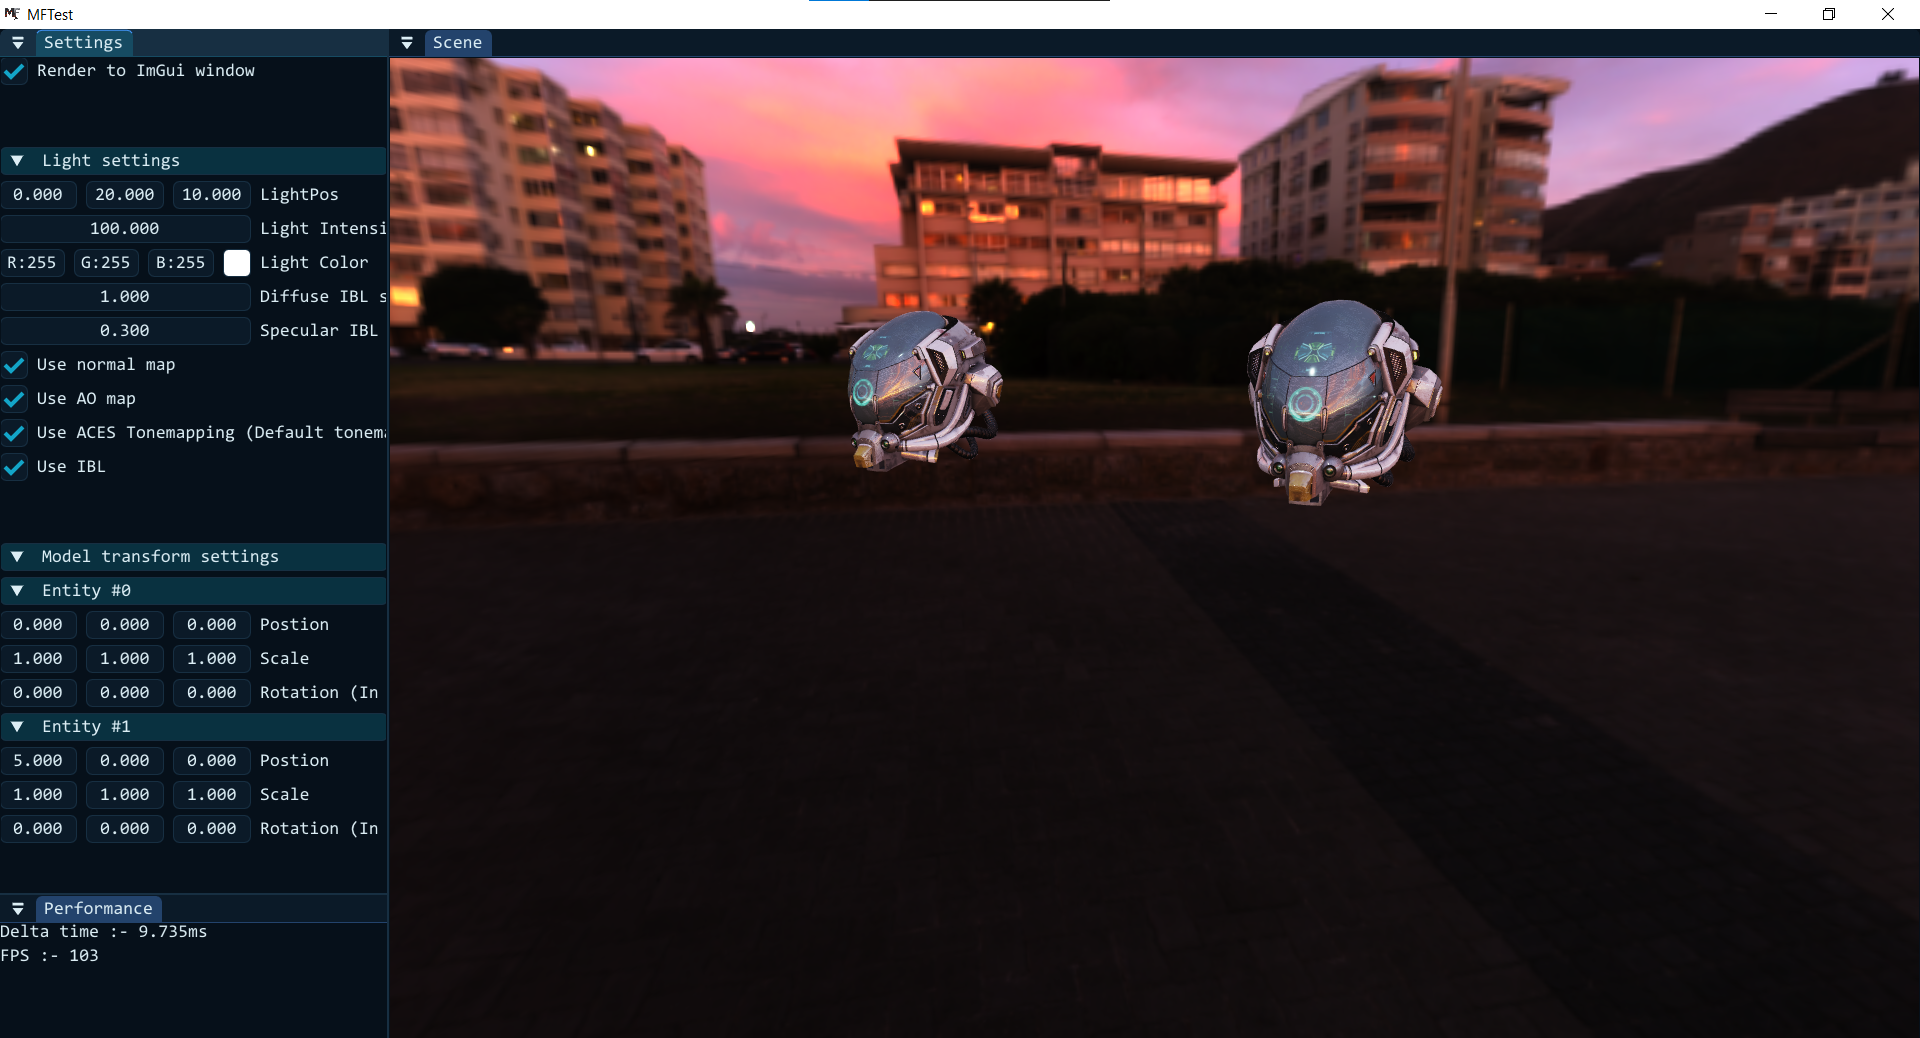
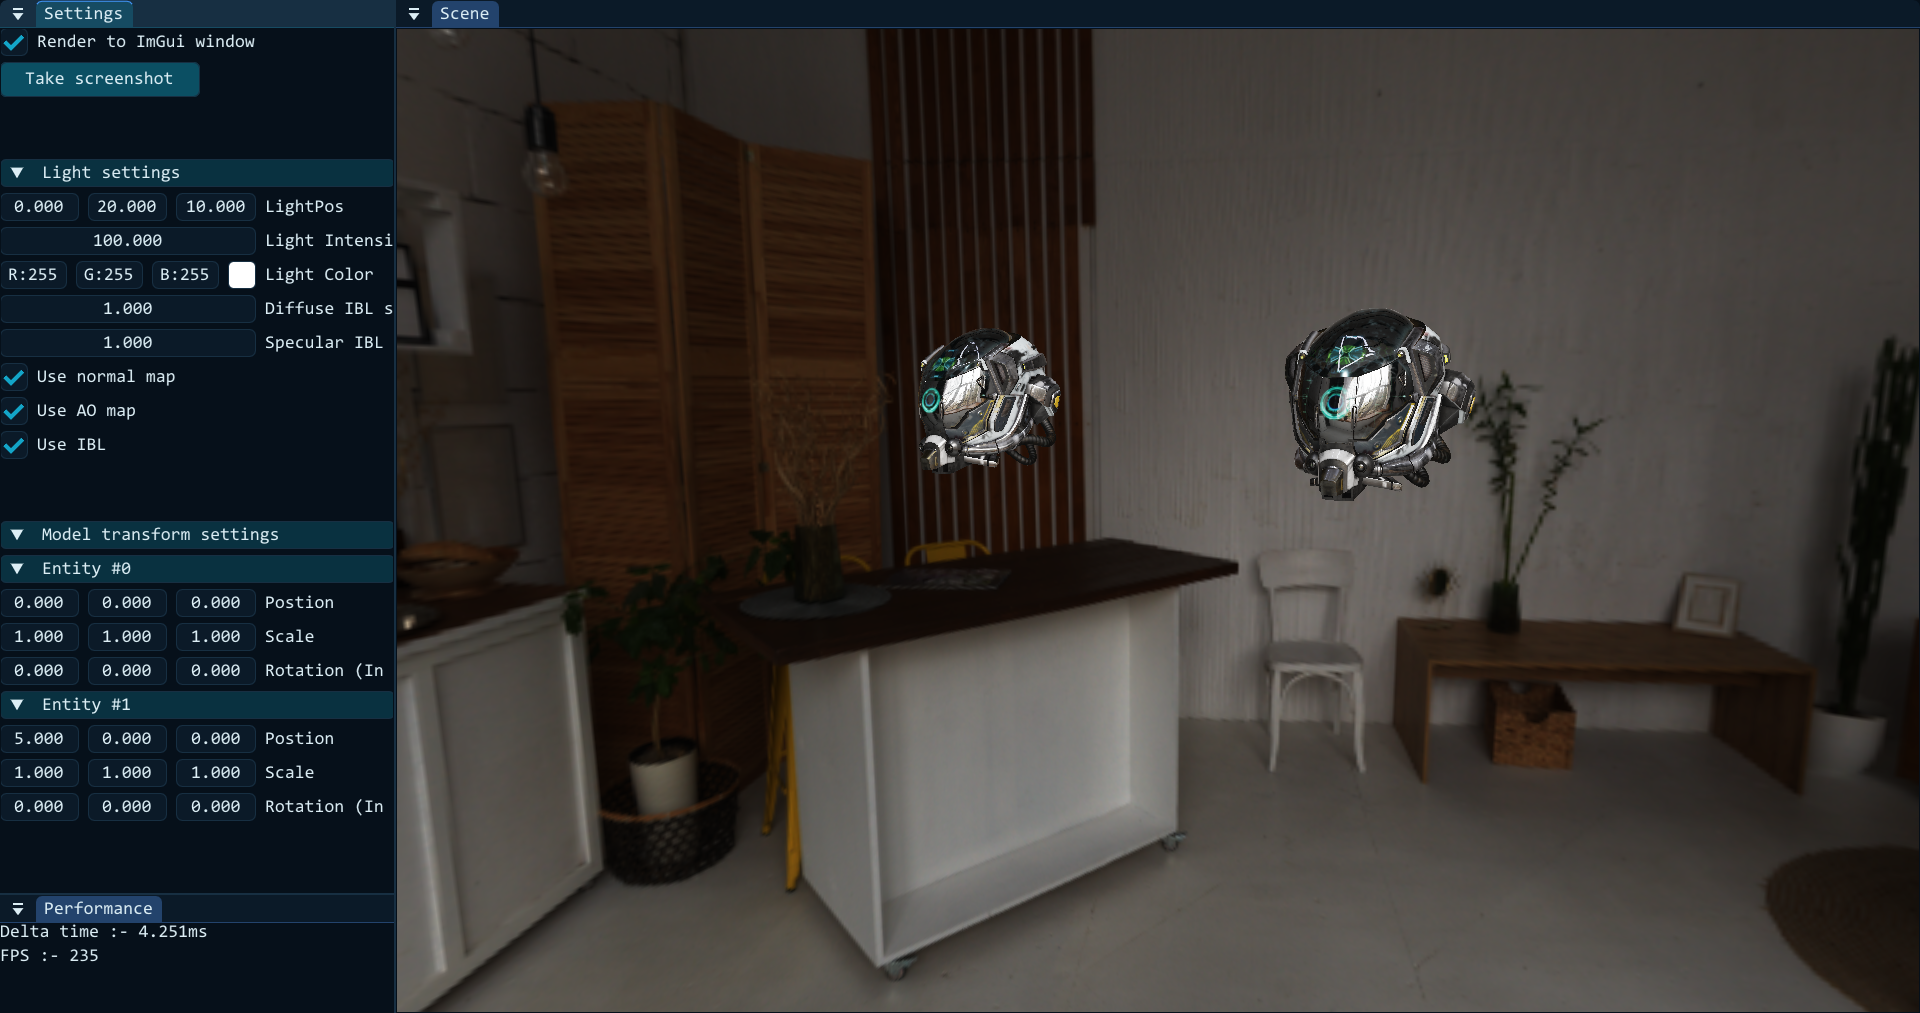
Updated a screenshot

diff --git a/MFTest/src/mftest.c b/MFTest/src/mftest.c
@@ -330,9 +330,9 @@ static void CreateScene(MFTState* state, MFDefaultAppState* appState) {
             .path = "mftmeshes/sofa/sofa_1k.gltf",
             .perVertSize = sizeof(Vertex)
         };
-        mfSceneAddMeshComponent(&state->scene, &mComp2);
+        // mfSceneAddMeshComponent(&state->scene, &mComp2);
 
-        mfSceneEntityAttachMeshComponent(&state->scene, &state->entities[1], &mComp2);
+        mfSceneEntityAttachMeshComponent(&state->scene, &state->entities[1], &mComp);
         mfSceneEntityAttachTransformComponent(&state->scene, &state->entities[1], &tComp);
     } else {
         u64 entityCount = 0;
